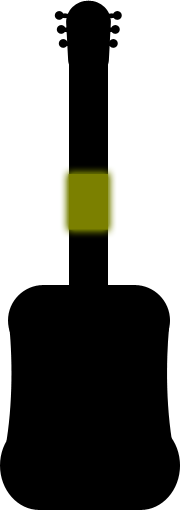
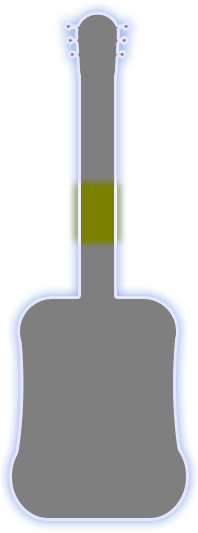
Updated visuals of the Wall of Sound navigation and the instruments

diff --git a/wallOfSound.xaml b/wallOfSound.xaml
@@ -217,19 +217,29 @@
         <Image x:Name="imgPrimaryGlowLeft" Height="76" Source="images/glowing-point.png" Stretch="Fill" Width="76" Visibility="Hidden" />
         <Image x:Name="imgPrimaryGlowRight" Height="76" Source="images/glowing-point.png" Stretch="Fill" Width="76" Visibility="Hidden" />
         <Image x:Name="imgKinectGuide" Height="100" Source="/Moto;component/images/kinect-guide.png" Stretch="Fill" Canvas.Top="380" Width="100" Visibility="Hidden" />
-        <Canvas Canvas.Left="1" Canvas.Top="-1" Height="247" Name="testCanvas" Width="158" RenderTransformOrigin="0.5,0.5" Visibility="Hidden">
-            <Rectangle Canvas.Left="0" Canvas.Top="187" Height="60" x:Name="rectKinectGuide" Stroke="Black" Width="157" Fill="Red">
-            </Rectangle>
-            <Rectangle Canvas.Left="0" Canvas.Top="127" Fill="Red" Height="60" Name="rectangle2" RenderTransformOrigin="0.5,0.5" Stroke="Black" Width="157" />
-            <Rectangle Canvas.Left="0" Canvas.Top="68" Fill="Red" Height="60" Name="rectangle3" RenderTransformOrigin="0.5,0.5" Stroke="Black" Width="157" />
-            <Rectangle Canvas.Left="0" Canvas.Top="9" Fill="Red" Height="60" Name="rectangle4" RenderTransformOrigin="0.5,0.5" Stroke="Black" Width="157" />
-            <TextBlock Height="31" Canvas.Left="26" TextWrapping="Wrap" Canvas.Top="141" Width="90"><Run Language="en-gb" Text="Record new wall"/></TextBlock>
-            <TextBlock Height="36" Canvas.Left="17" TextWrapping="Wrap" Canvas.Top="76" Width="99"><Run Language="en-gb" Text="Custom wall"/></TextBlock>
-            <TextBlock Height="39" Canvas.Left="17" TextWrapping="Wrap" Canvas.Top="25" Width="110"><Run Language="en-gb" Text="Technologic"/></TextBlock>
-            <TextBlock Height="40" Canvas.Left="22" TextWrapping="Wrap" Canvas.Top="196" Width="112"><Run Language="en-gb" Text="Go back"/></TextBlock>
+		<Canvas Width="640" Height="480" MaxWidth="640" MaxHeight="480" Canvas.Left="0" Canvas.Top="0">
+        	<Canvas.OpacityMask>
+                <LinearGradientBrush EndPoint="0,1" StartPoint="0,0">
+                	<GradientStop Color="#3F000000" Offset="0"/>
+                    <GradientStop Color="#FF000000" Offset="0.4"/>
+					<GradientStop Color="#FF000000" Offset="0.6"/>
+					<GradientStop Color="#3F000000" Offset="1"/>
+                </LinearGradientBrush>
+            </Canvas.OpacityMask>      
+			<Canvas Canvas.Left="1" Canvas.Top="-1" Height="481" Name="testCanvas" Width="158" RenderTransformOrigin="0.5,0.5">
+	            <Image Canvas.Left="0" Canvas.Top="187" Height="60" Name="image2" Stretch="Fill" Width="163" Source="/Moto;component/images/menu-item.png" />
+	            <Image Canvas.Left="0" Canvas.Top="127" Height="60" Name="image3" Source="/Moto;component/images/menu-item.png" Stretch="Fill" Width="163" />
+	            <Image Canvas.Left="0" Canvas.Top="68" Height="60" Name="image4" Source="/Moto;component/images/menu-item.png" Stretch="Fill" Width="163" />
+	            <Image Canvas.Left="0" Canvas.Top="6" Height="60" Name="image5" Source="/Moto;component/images/menu-item.png" Stretch="Fill" Width="163" />
+                <Image Canvas.Left="0" Canvas.Top="-52" Height="60" Name="image6" Source="/Moto;component/images/menu-item.png" Stretch="Fill" Width="163" />
+            </Canvas>
+	        <Image Canvas.Left="0" Canvas.Top="187" Height="60" Name="imgMenuSelected" Source="/Moto;component/images/menu-item-selected.png" Stretch="Fill" Width="163" IsHitTestVisible="True" Visibility="Hidden" />
+	        <Rectangle Fill="Black" Height="8" Canvas.Left="632" Canvas.Top="472" Width="8"/>
+            <Canvas.Background>
+                <SolidColorBrush />
+            </Canvas.Background>
         </Canvas>
-        <Rectangle Canvas.Left="-1" Canvas.Top="187" Height="59" Name="rectangle1" Stroke="Black" Width="160" Visibility="Hidden" />
-        <Rectangle x:Name="imgDimmer" Fill="Black" Height="480" Stroke="#00000000" Width="640" Opacity="0.495" Visibility="Hidden" />
+		<Rectangle x:Name="imgDimmer" Fill="Black" Height="480" Stroke="#00000000" Width="640" Opacity="0.495" Visibility="Hidden" />
         <Image x:Name="imgPrep" Height="109.02" Canvas.Left="122.5" Source="images/preparing.png" RenderOptions.BitmapScalingMode="HighQuality" Stretch="Fill" Canvas.Top="147" Width="395" RenderTransformOrigin="0.5,0.5" Visibility="Hidden">
             <Image.RenderTransform>
                 <TransformGroup>

diff --git a/wallOfSound.xaml.cs b/wallOfSound.xaml.cs
@@ -565,10 +565,10 @@ namespace Moto
             currentFocus = playerFocus.KinectGuide;
 
             MainWindow.animateSlide(testCanvas, false, false, -150, 0.5);
-            MainWindow.animateSlide(rectangle1, false, false, -150, 0.5);
+            MainWindow.animateSlide(imgMenuSelected, false, false, -150, 0.5);
             
             testCanvas.Visibility = System.Windows.Visibility.Visible;
-            rectangle1.Visibility = System.Windows.Visibility.Visible;
+            imgMenuSelected.Visibility = System.Windows.Visibility.Visible;
 
             menuPosition = 0;
 
@@ -650,7 +650,8 @@ namespace Moto
             Console.WriteLine("Left swipe right");
 
             MainWindow.animateSlide(testCanvas, true, false, -150, 0.5);
-            MainWindow.animateSlide(rectangle1, true, false, -150, 0.5);
+            MainWindow.animateSlide(imgMenuSelected, true, false, -150, 0.5);
+            //MainWindow.animateSlide(imgKinectGuideDimmer, true, false, -150, 0.5);
 
             currentFocus = playerFocus.None;
 

diff --git a/changelog.md b/changelog.md
@@ -1,5 +1,10 @@
 CHANGELOG
 =========
+0.5.1.2 - 17/4/12
+-----------------
+- Instruments are now translucent
+- Wall of Sound vertical scrolling has updated visuals
+
 0.5.1.1 - 16/4/12
 -----------------
 - Upped the minimum build requirement to 0.5.1.1
